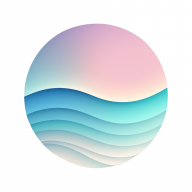
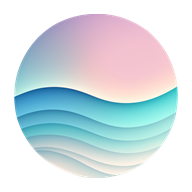
update: アイコンを変更する

Changed region(s): [[0.0625, 0.0625, 0.9375, 0.9375], [0.5, 0.5, 0.5938, 0.5312], [0.4375, 0.4688, 0.4688, 0.5]]

diff --git a/pages/_document.tsx b/pages/_document.tsx
@@ -18,6 +18,7 @@ export const Document: FC = () => {
         />
         <link href={href} rel={"stylesheet"} />
         <link rel={"icon"} href={"/favicon.ico"} />
+        <link rel={"apple-touch-icon"} href={"/apple-touch-icon.png"} />
         <link rel={"manifest"} href={"/manifest.json"} />
       </Head>
       <body>
